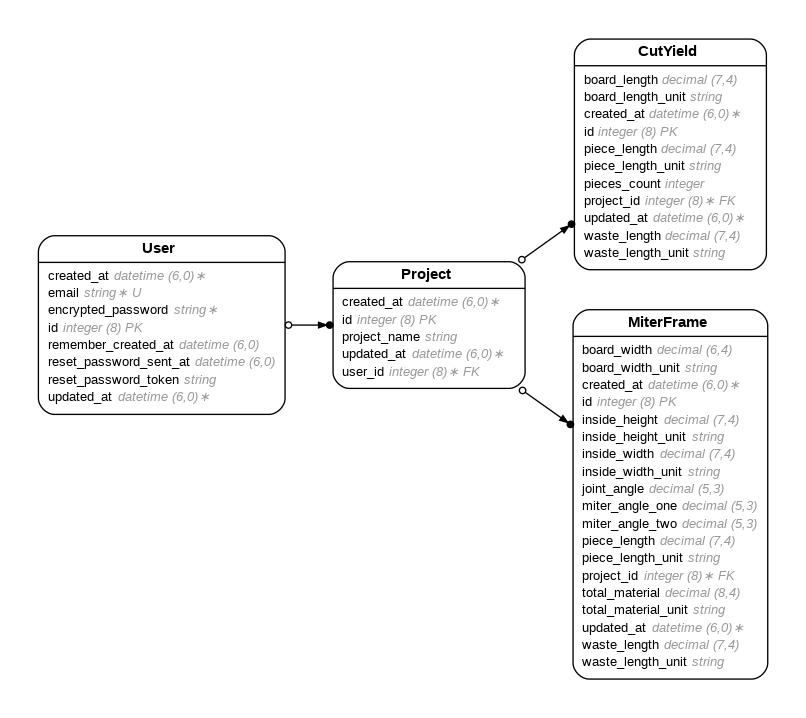
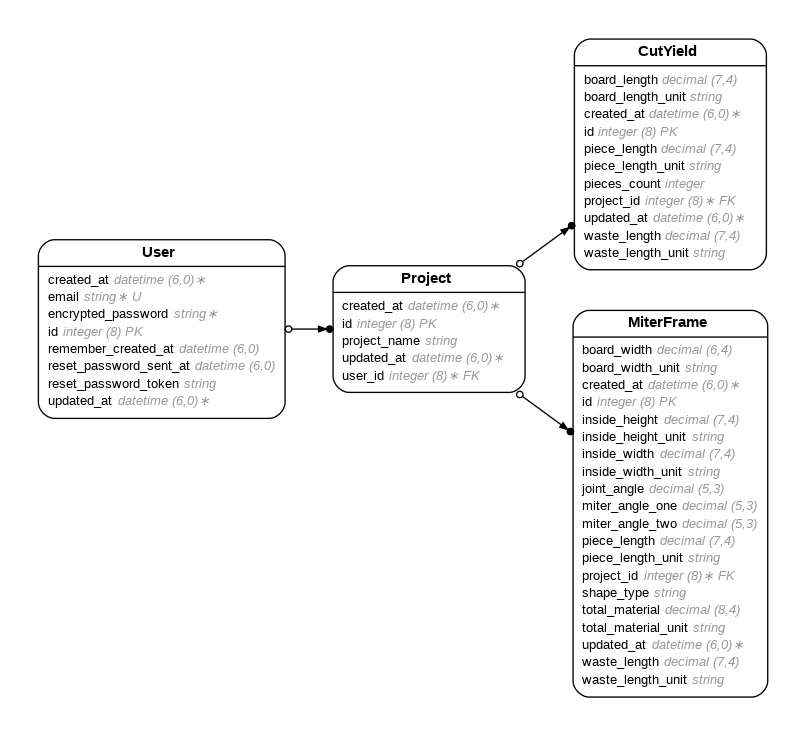
Working on Miter Frames form

diff --git a/app/assets/stylesheets/application.css b/app/assets/stylesheets/application.css
@@ -9,10 +9,59 @@
  * Consider organizing styles into separate files for maintainability.
  */
 body {
-  background-color: burlywood
+  margin: 0;
+  background-image: url("/images/andrey-haimin-q2Fyzn-KJOQ-unsplash.jpg");
+  background-size: cover;
 }
 
-footer {background-color: cornflowerblue;}
+header {
+  background-color: cornflowerblue;
+  color: white;
+  padding: 1rem 2rem;
+  box-shadow: 0 2px 6px rgba(0,0,0,0.2)
+}
+
+form#cut-yield-form {
+  background-color: white;
+  max-width: 700px;
+  border-radius: 10px;
+  margin: 2rem auto;
+  padding: 2rem;
+}
+
+form#cut-yield-form div{
+  display: flex;
+  flex-wrap: wrap;
+  gap: 1rem;
+  align-items: center;
+}
+
+form#miter-frame-form {
+  background-color: white;
+  max-width: 1000px;
+  border-radius: 10px;
+  margin: 2rem auto;
+  padding: 2rem;
+}
+
+form#miter-frame-form div{
+  display: flex;
+  flex-wrap: wrap;
+  gap: 1rem;
+  align-items: center;
+}
+
+footer {
+  background-color: cornflowerblue;
+}
+
+#login-container {
+  background-color: white;
+  max-width: 500px;
+  border-radius: 10px;
+  margin: 2rem auto;
+  padding: 2rem;
+}
 
 h1 {
   color: white;
@@ -53,7 +102,7 @@ h1 {
   align-items: center;
 }
 
-#footer-icon{
+#footer-icon {
   width: 32px;
   height: 32px;
   display: block

diff --git a/db/schema.rb b/db/schema.rb
@@ -10,7 +10,7 @@
 #
 # It's strongly recommended that you check this file into your version control system.
 
-ActiveRecord::Schema[8.0].define(version: 2025_09_04_000623) do
+ActiveRecord::Schema[8.0].define(version: 2025_09_15_195203) do
   # These are extensions that must be enabled in order to support this database
   enable_extension "pg_catalog.plpgsql"
 
@@ -47,6 +47,7 @@ ActiveRecord::Schema[8.0].define(version: 2025_09_04_000623) do
     t.bigint "project_id", null: false
     t.datetime "created_at", null: false
     t.datetime "updated_at", null: false
+    t.string "shape_type"
     t.index ["project_id"], name: "index_miter_frames_on_project_id"
   end
 

diff --git a/app/models/miter_frame.rb b/app/models/miter_frame.rb
@@ -14,6 +14,7 @@
 #  miter_angle_two     :decimal(5, 3)
 #  piece_length        :decimal(7, 4)
 #  piece_length_unit   :string
+#  shape_type          :string
 #  total_material      :decimal(8, 4)
 #  total_material_unit :string
 #  waste_length        :decimal(7, 4)

diff --git a/app/controllers/miter_frames_controller.rb b/app/controllers/miter_frames_controller.rb
@@ -4,6 +4,7 @@ class MiterFramesController < ApplicationController
   # GET /miter_frames or /miter_frames.json
   def index
     @miter_frames = MiterFrame.all
+    @miter_frame = MiterFrame.new
   end
 
   # GET /miter_frames/1 or /miter_frames/1.json

diff --git a/app/controllers/cut_yields_controller.rb b/app/controllers/cut_yields_controller.rb
@@ -15,7 +15,6 @@ class CutYieldsController < ApplicationController
   def new
     @cut_yield = CutYield.new
   end
-
   # GET /cut_yields/1/edit
   def edit
   end

diff --git a/db/migrate/20250915195203_add_shape_type_to_miter_frames.rb b/db/migrate/20250915195203_add_shape_type_to_miter_frames.rb
@@ -1,0 +1,5 @@
+class AddShapeTypeToMiterFrames < ActiveRecord::Migration[8.0]
+  def change
+    add_column :miter_frames, :shape_type, :string
+  end
+end
